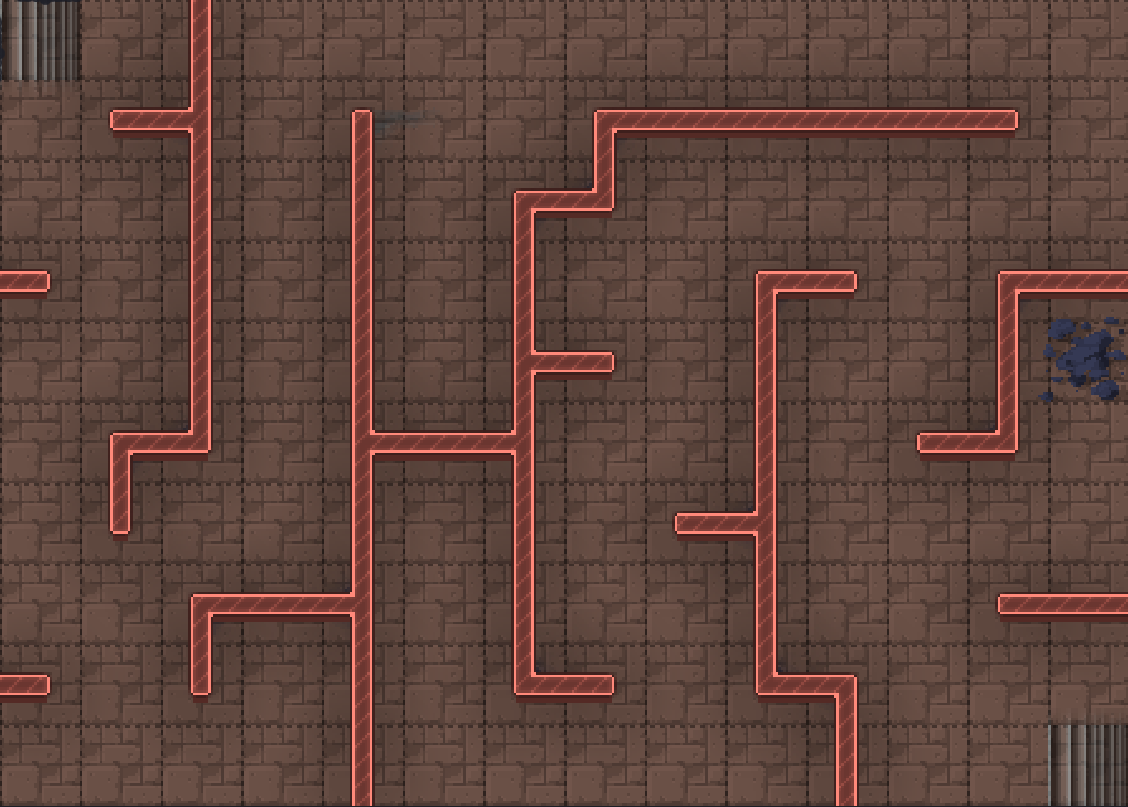
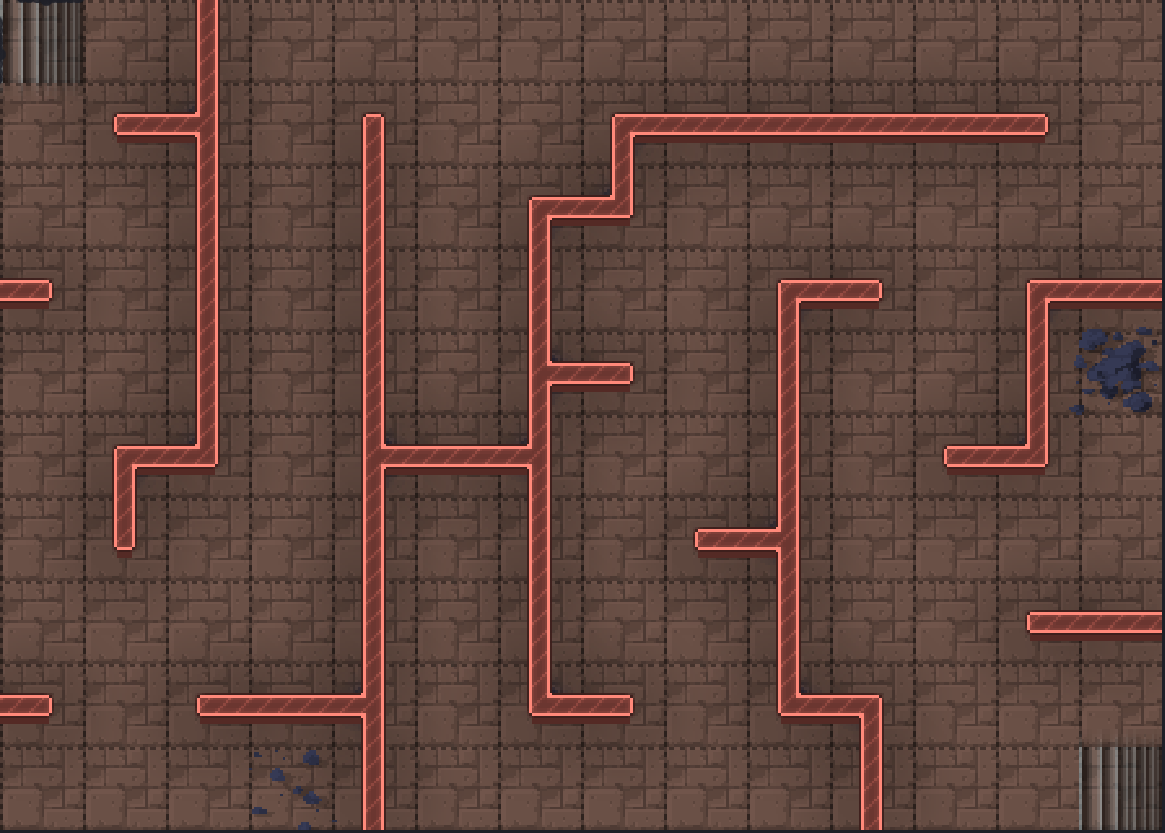
Changed maze and removed player background

diff --git a/Level3.cs b/Level3.cs
@@ -57,7 +57,7 @@ namespace NightsLight
                 SizeMode = PictureBoxSizeMode.AutoSize,
                 Location = new Point(0, 0),
                 Image = Image.FromFile(Program.currentDirectory + "/Assets/Player/character_01.png"),
-                BackColor = Color.Red
+                BackColor = Color.Transparent
             };
             this.Controls.Add(player); // Adds the player sprite to the screen.
         }
@@ -71,7 +71,7 @@ namespace NightsLight
             maze.Add(AddWalls(0, 561, 47, 23));
             maze.Add(AddWalls(93, 90, 90, 23));
             maze.Add(AddWalls(93, 359, 90, 23));
-            maze.Add(AddWalls(163, 494, 160, 23));
+            maze.Add(AddWalls(163, 561, 160, 23));
             maze.Add(AddWalls(304, 359, 150, 23));
             maze.Add(AddWalls(445, 158, 90, 23));
             maze.Add(AddWalls(445, 292, 90, 23));
@@ -82,18 +82,17 @@ namespace NightsLight
             maze.Add(AddWalls(655, 560, 90, 23));
             maze.Add(AddWalls(793, 358, 90, 23));
             maze.Add(AddWalls(866, 225, 120, 23));
-            maze.Add(AddWalls(866, 493, 120, 23));
+            maze.Add(AddWalls(862, 493, 120, 23));
 
             // All vertical walls.
             maze.Add(AddWalls(163, 0, 23, 382)); 
             maze.Add(AddWalls(93, 360, 23, 90));
-            maze.Add(AddWalls(163, 494, 23, 89));
             maze.Add(AddWalls(304, 72, 23, 600));
             maze.Add(AddWalls(445, 158, 23, 420));
             maze.Add(AddWalls(513, 90, 23, 91));
-            maze.Add(AddWalls(655, 225, 23, 350));
+            maze.Add(AddWalls(652, 225, 23, 358));
             maze.Add(AddWalls(723, 560, 23, 120));
-            maze.Add(AddWalls(866, 225, 23, 156));
+            maze.Add(AddWalls(862, 225, 23, 156));
         }
 
         private PictureBox AddWalls(int x, int y, int w, int h)
